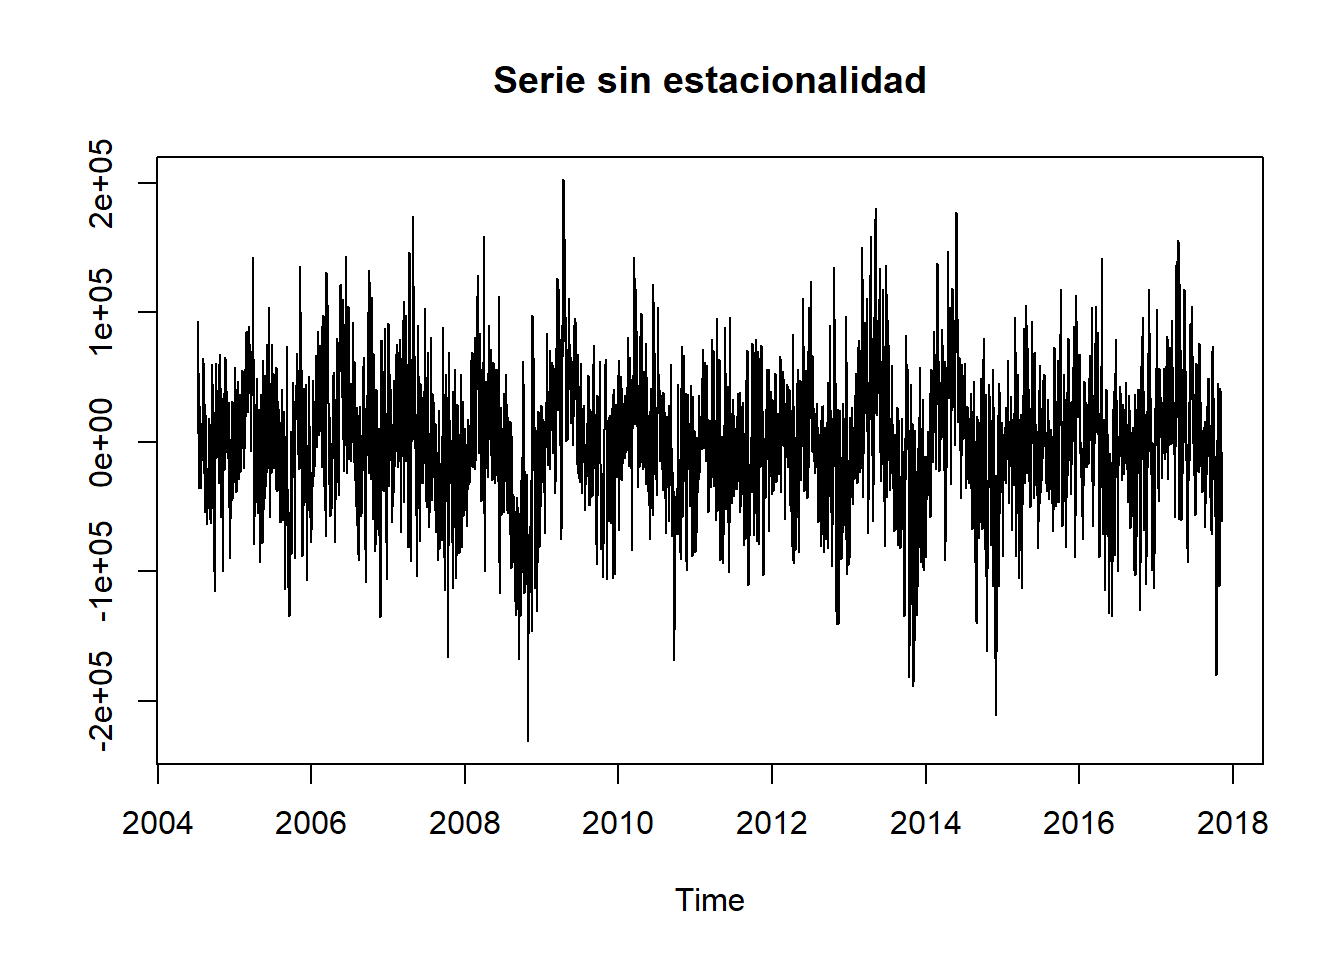
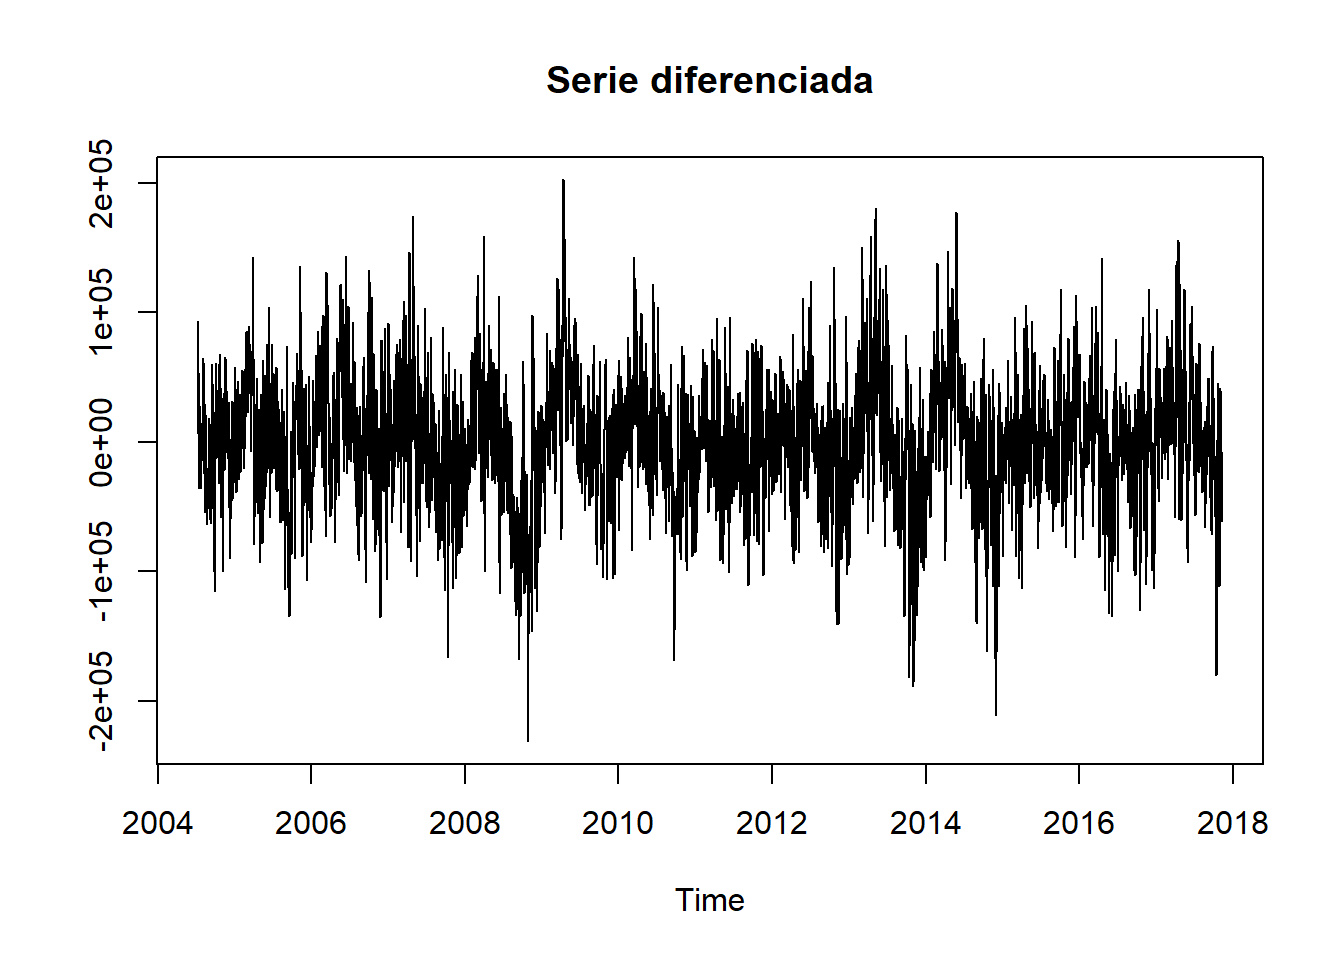
codigo sofia

Changed region(s): [[0.3438, 0.0625, 0.6875, 0.0938]]

diff --git a/Libro/Libro/docs/Descriptivo Energia.html b/Libro/Libro/docs/Descriptivo Energia.html
@@ -598,7 +598,7 @@ F-statistic: 313.4 on 1 and 5052 DF,  p-value: &lt; 2.2e-16</code></pre>
 <span id="cb34-2"><a href="#cb34-2" aria-hidden="true" tabindex="-1"></a></span>
 <span id="cb34-3"><a href="#cb34-3" aria-hidden="true" tabindex="-1"></a>sin_est<span class="ot">=</span><span class="fu">diff</span>(energia2,<span class="at">lag=</span><span class="fu">round</span>(s),<span class="at">differences=</span><span class="dv">1</span>)</span>
 <span id="cb34-4"><a href="#cb34-4" aria-hidden="true" tabindex="-1"></a></span>
-<span id="cb34-5"><a href="#cb34-5" aria-hidden="true" tabindex="-1"></a><span class="fu">plot.ts</span>(sin_est, <span class="at">main=</span><span class="st">"Serie sin estacionalidad"</span>, <span class="at">ylab=</span><span class="st">''</span>)</span></code><button title="Copiar al portapapeles" class="code-copy-button"><i class="bi"></i></button></pre></div>
+<span id="cb34-5"><a href="#cb34-5" aria-hidden="true" tabindex="-1"></a><span class="fu">plot.ts</span>(sin_est, <span class="at">main=</span><span class="st">"Serie diferenciada"</span>, <span class="at">ylab=</span><span class="st">''</span>)</span></code><button title="Copiar al portapapeles" class="code-copy-button"><i class="bi"></i></button></pre></div>
 <div class="cell-output-display">
 <p><img src="Descriptivo-Energia_files/figure-html/unnamed-chunk-24-1.png" class="img-fluid" width="672"></p>
 </div>
